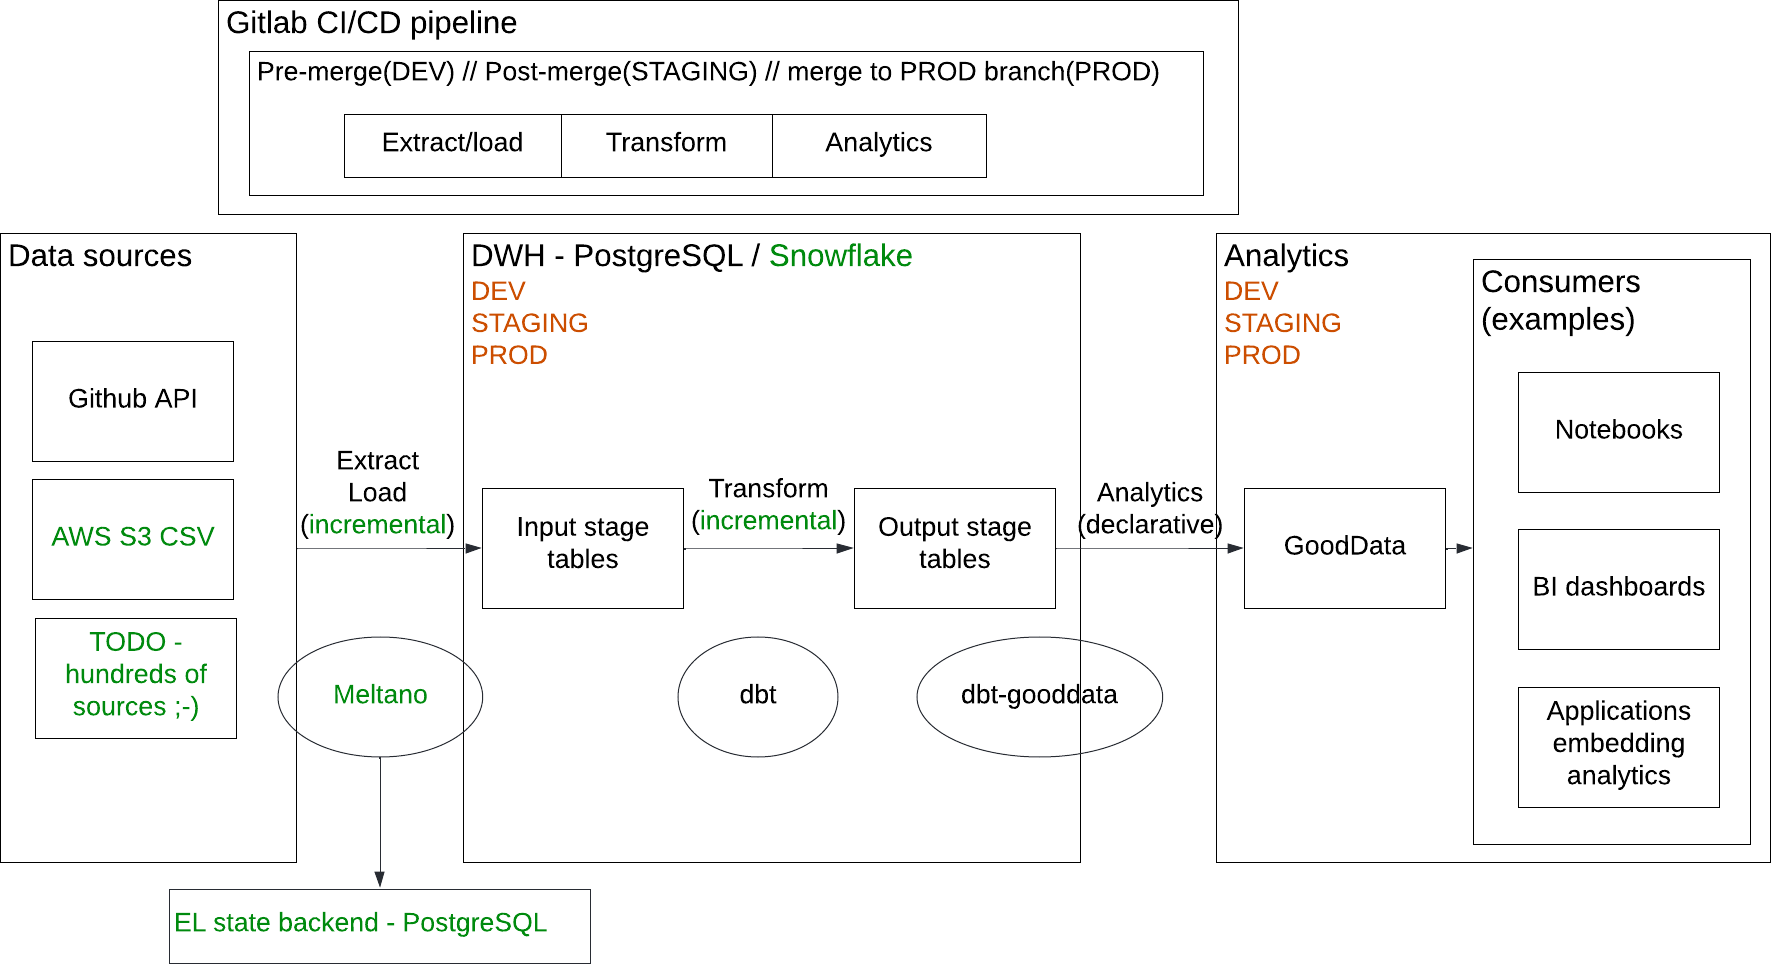
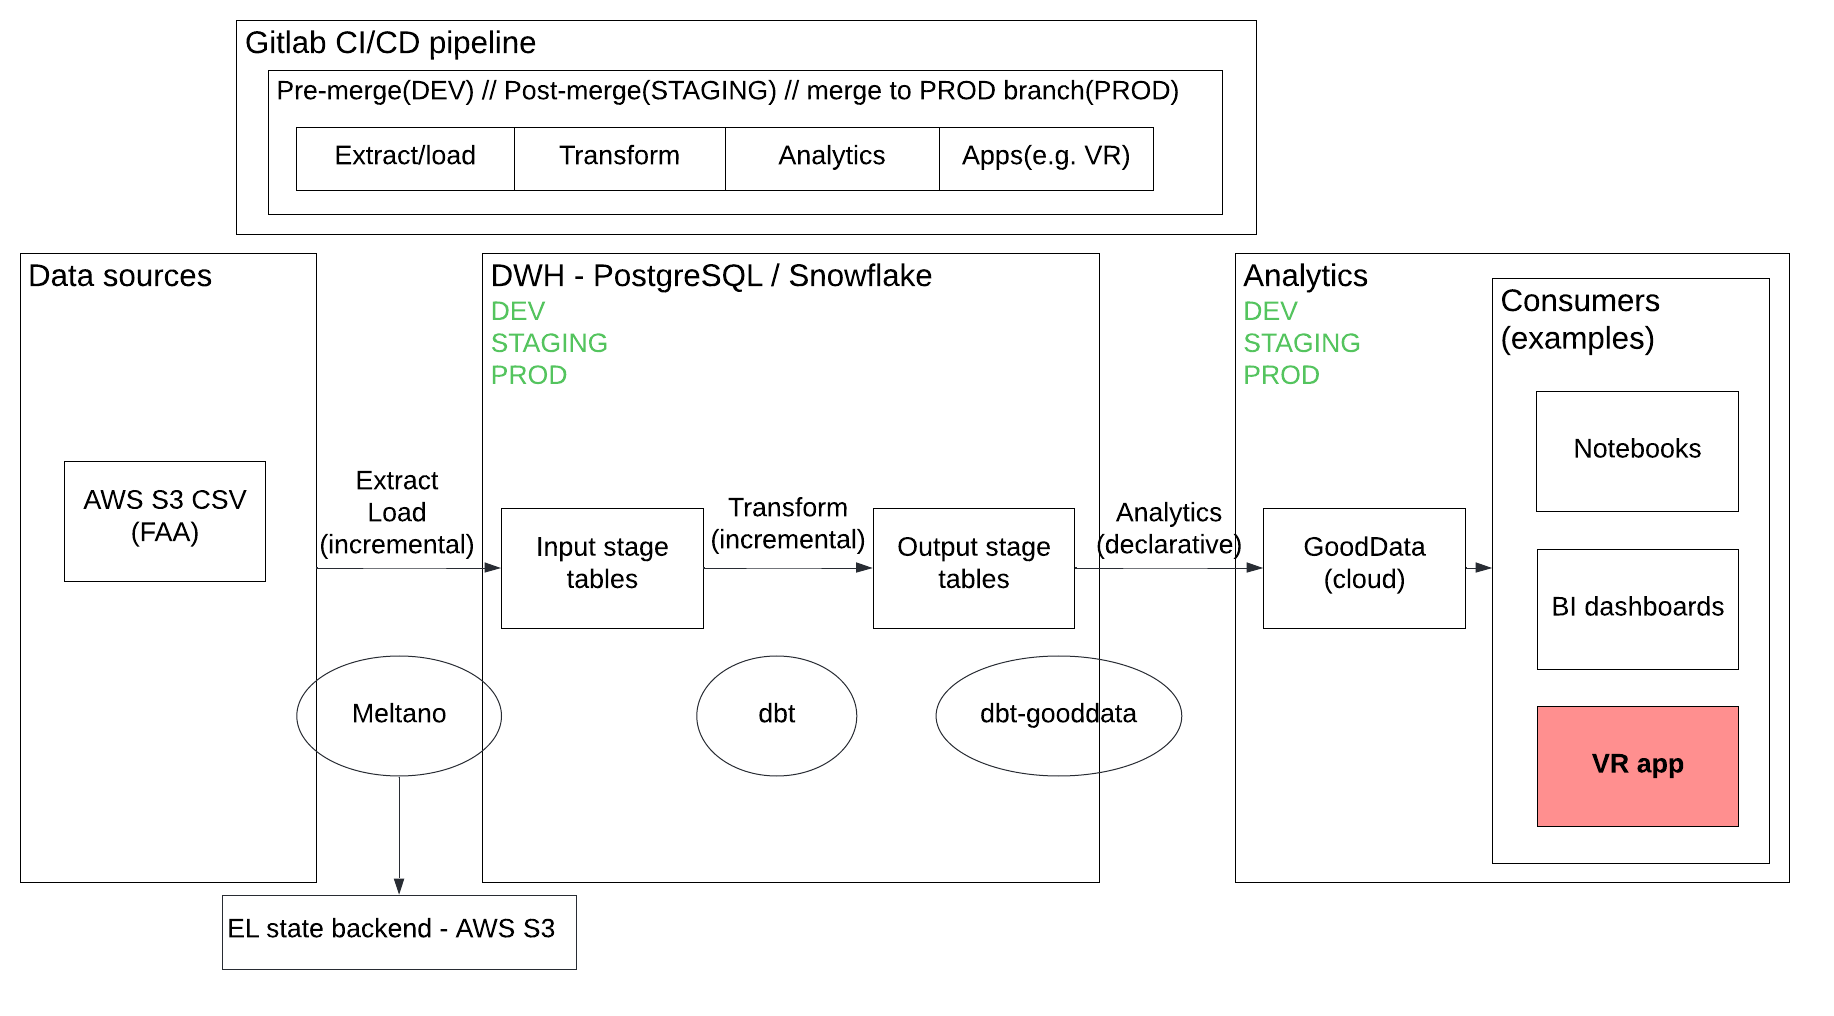
Finalize migration to S3 state backend

diff --git a/README.md b/README.md
@@ -10,6 +10,8 @@ It realizes the following steps:
 - deploys UI data apps coupled with the data pipeline. Read more details in [apps folder](apps/) 
 
 Delivery into dev/staging/prod environments is orchestrated by [Gitlab](https://gitlab.com/) (except the data apps).
+Data apps are delivered by [render.com](render.com) service after merge to `main` branch (staging), and after merge to `prod` branch(production).
+
 Generally, you can change the whole data pipeline and UI apps by a single commit, and deliver everything consistently.
 
 ![Demo architecture](docs/MDS.png "Demo architecture")
@@ -28,6 +30,7 @@ The following articles are based on this project:
 - [How To Build a Modern Data Pipeline](https://medium.com/gooddata-developers/how-to-build-a-modern-data-pipeline-cfdd9d14fbea)
 - [How GoodData Integrates With dbt](https://medium.com/gooddata-developers/how-gooddata-integrates-with-dbt-a0c6f207eca3)
 - [Extending CI/CD data pipeline with Meltano](https://medium.com/gooddata-developers/extending-ci-cd-data-pipeline-with-meltano-7de3bce74f57)
+- [Analytics Inside Virtual Reality: Too Soon?](TODO)
 
 ## Getting Started
 I recommend to begin on your localhost, starting the whole ecosystem using [docker-compose.yaml](docker-compose.yaml) file.
@@ -36,12 +39,9 @@ It utilizes the [GoodData Community Edition](https://hub.docker.com/r/gooddata/g
 ```bash
 # Build custom images based on Meltano, dbt and GoodData artefacts
 docker-compose build
-# Start GoodData
-docker-compose up -d gooddata-cn-ce
-# Wait 1-2 minutes to the service successfully starts
-
-# Bootstrap DB schemas
-docker-compose up bootstrap_db
+# Start GoodData, and Minio(AWS S3 Meltano state backend)
+docker-compose up -d gooddata-cn-ce minio minio-bootstrap
+# Wait 1-2 minutes to services successfully start
 
 # Allow https://localhost:8443 in CORS
 # This enables testing of locally started UI apps based on UI.SDK (examples in /apps folder) 
@@ -50,6 +50,9 @@ docker-compose up bootstrap_origins
 # Extract/load pipeline based on Meltano
 # Github token for authenticating with Github REST API 
 export TAP_GITHUB_AUTH_TOKEN="<my github token>"
+# Set AWS S3 credentials to be able to ELT the FAA data (stored in public dataset)
+export AWS_ACCESS_KEY_ID="<my AWS access key>"
+export AWS_SECRET_ACCESS_KEY="<my AWS secret key>"
 docker-compose up extract_load
 
 # Transform model to be ready for analytics, with dbt
@@ -66,12 +69,13 @@ Then you can move to Gitlab, forking this repository and run the pipeline agains
         and in few tens of seconds you get your own GoodData instance running in our cloud, managed by us.
 - Create a public PostgreSQL or Snowflake instance
   - Personally, I found [bit.io](https://bit.io/) as the only free-forever PostgreSQL offering.
-  - Create required databases (for dev/staging/prod) and schema `meltano` for Meltano state backend.
+  - Create required databases (for dev/staging/prod).
  
 You have to set the following (sensitive) environment variables in the Gitlab(section Settings/CICD):
 - TAP_GITHUB_AUTH_TOKEN
 - GOODDATA_HOST - host name pointing to the GoodData instance
 - GOODDATA_TOKEN - admin token to authenticate against the GoodData instance
+- MELTANO_STATE_AWS_ACCESS_KEY_ID/MELTANO_STATE_AWS_SECRET_ACCESS_KEY - Meltano stores its state to AWS S3, and needs these credentials
 
 The rest of environment variables (Github repos to be crawled, DB endpoints, ...) can be configured in [.gitlab-ci.yml](.gitlab-ci.yml)(section `variables`).
 
@@ -93,6 +97,8 @@ deactivate
 ### Set environment variables
 ```bash
 export TAP_GITHUB_AUTH_TOKEN="<your token>"
+export AWS_ACCESS_KEY_ID="<my AWS access key>"
+export AWS_SECRET_ACCESS_KEY="<my AWS secret key>"
 # The folowing variables are valid for local environment started from docker-compose.yaml
 export DBT_PROFILE_DIR="profile"
 export ELT_ENVIRONMENT="cicd_dev_local"
@@ -111,7 +117,6 @@ export POSTGRES_DBNAME=demo
 export INPUT_SCHEMA=cicd_input_stage
 export OUTPUT_SCHEMA=cicd_output_stage
 export DBT_TARGET_TITLE="CI/CD dev (local)"
-export MELTANO_DATABASE_URI="postgresql://$POSTGRES_USER:$POSTGRES_PASS@$POSTGRES_HOST:$POSTGRES_PORT/$POSTGRES_DBNAME?options=-csearch_path%3Dmeltano"
 ```
 
 ### Extract and Load
@@ -204,6 +209,13 @@ Use the following command:
 ```bash
 make test_insights
 ```
+
+## Applications
+
+Applications are stored in [apps](apps/) folder. They are not delivered by the Gitlab pipeline, but by render.com service watching this repo.
+
+### VR demo
+[README](apps/vr_analytics/)
 
 ---
 
